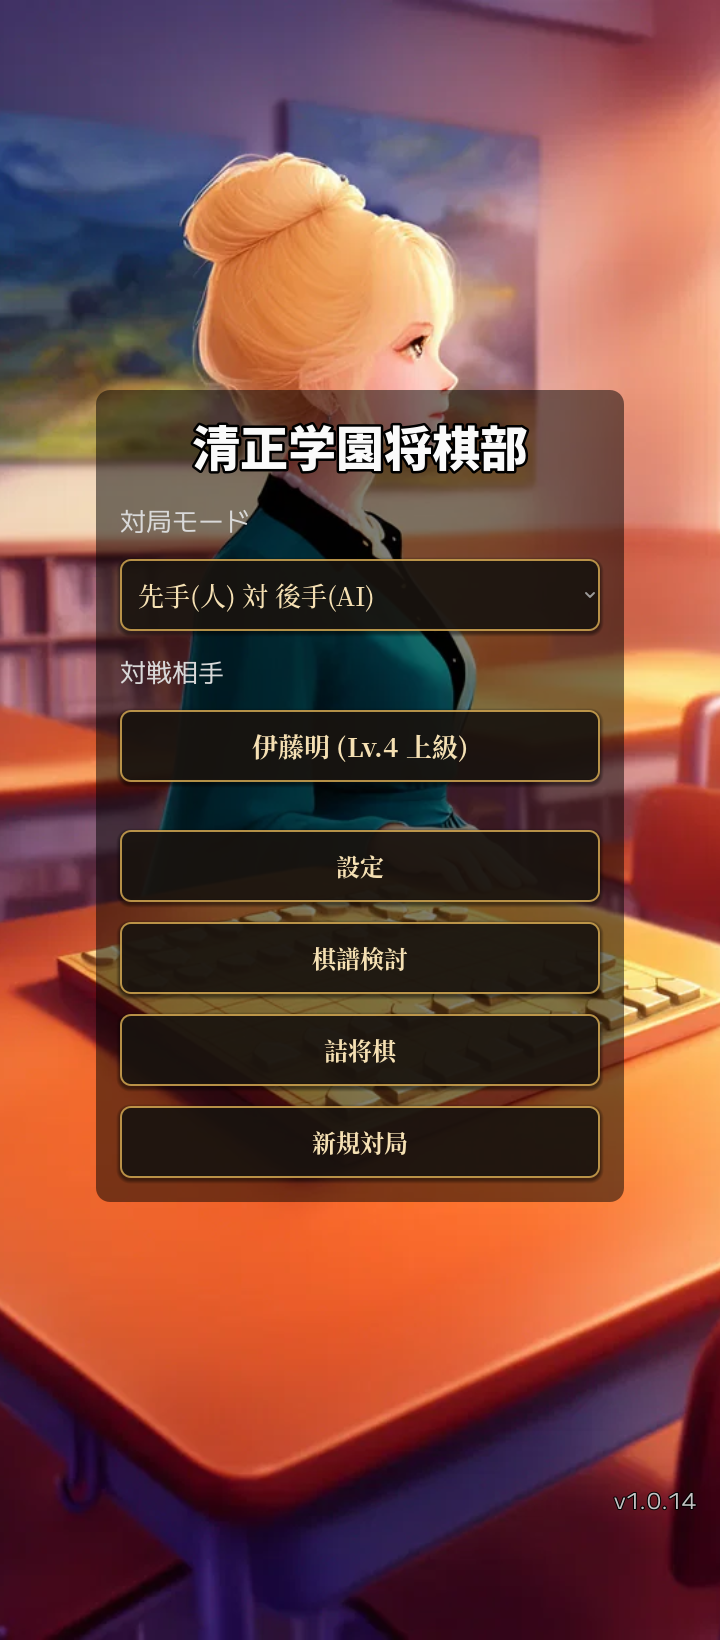
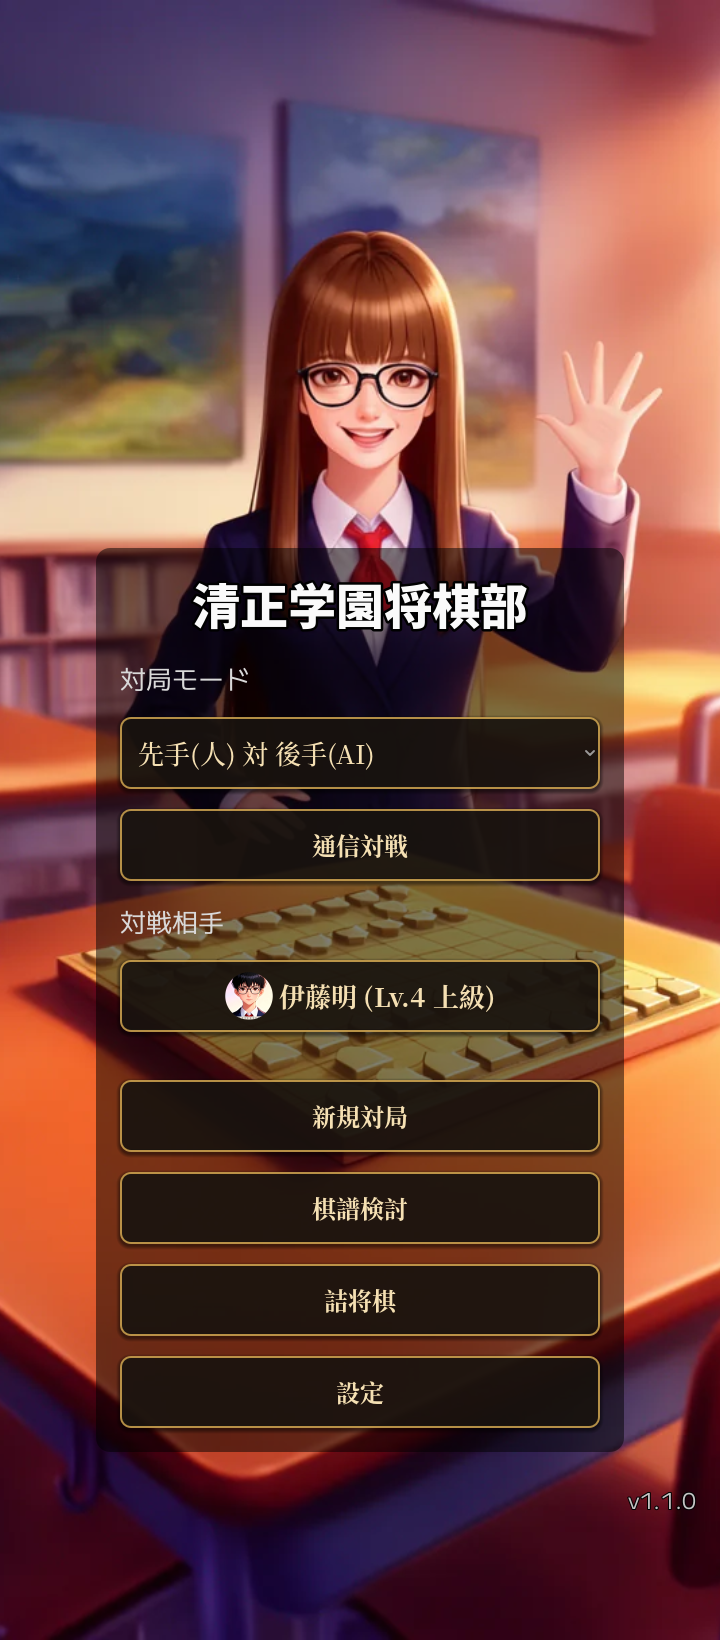
docs: screenshots for 通信対戦 and the new title screen
Retakes the title screen (menu at the bottom, 通信対戦 button, round
opponent portrait) and adds the lobby, the board turned round for
後手 and the 再戦 dialog, for the README and the store listing. The
other screens have not changed.

diff --git a/README.md b/README.md
@@ -29,7 +29,7 @@ Android 7.0（API 24）以降 / arm64-v8a。Google Play ストアは方針とし
 
 | タイトル画面 | 対戦相手選択 | 対局画面 |
 |:---:|:---:|:---:|
-| <img src="docs/screenshots/01_main_menu.png" width="220" alt="タイトル画面 — 対局モード・対戦相手を選び、設定 / 棋譜検討 / 詰将棋 / 新規対局へ進む（中断した対局があれば「続きから」も表示）。背景は部員・先生の絵から毎回ランダムに選ばれる。"> | <img src="docs/screenshots/02_character_picker.png" width="220" alt="対戦相手選択画面 — 8 人の部員・先生から指す相手を選ぶ。上半分に選択中キャラの肖像と紹介、その相手とのあなたの戦績、下半分に Lv 1〜8 のグリッド。"> | <img src="docs/screenshots/03_in_game_start.png" width="220" alt="Lv 4（伊藤明）との対局開始。上部バーに対戦相手の肖像と名前、その下に吹き出しでひと言、下部に「加藤先生！教えてください！」ボタンを配置。肖像は対局の流れで表情が変わる。"> |
+| <img src="docs/screenshots/01_main_menu.png" width="220" alt="タイトル画面 — 対局モードと対戦相手（丸い肖像付き）を選び、新規対局 / 棋譜検討 / 詰将棋 / 設定へ進む。「通信対戦」からは LAN での人対人の対局へ（中断した対局があれば「続きから」も表示）。背景は部員・先生の絵から毎回ランダムに選ばれる。"> | <img src="docs/screenshots/02_character_picker.png" width="220" alt="対戦相手選択画面 — 8 人の部員・先生から指す相手を選ぶ。上半分に選択中キャラの肖像と紹介、その相手とのあなたの戦績、下半分に Lv 1〜8 のグリッド。"> | <img src="docs/screenshots/03_in_game_start.png" width="220" alt="Lv 4（伊藤明）との対局開始。上部バーに対戦相手の肖像と名前、その下に吹き出しでひと言、下部に「加藤先生！教えてください！」ボタンを配置。肖像は対局の流れで表情が変わる。"> |
 
 | 先生モード | 棋譜検討（一覧） | 棋譜検討（解析） |
 |:---:|:---:|:---:|
@@ -38,6 +38,10 @@ Android 7.0（API 24）以降 / arm64-v8a。Google Play ストアは方針とし
 | 詰将棋（出題） | 詰将棋（正解） | 表情の変化（思考中） |
 |:---:|:---:|:---:|
 | <img src="docs/screenshots/07_tsume_problem.png" width="220" alt="詰将棋の出題画面 — 1手詰・3手詰・5手詰のタブに解いた数、今日の一問、盤面の下にヒント / やり直し / 前後の問題ボタン。"> | <img src="docs/screenshots/08_tsume_solved.png" width="220" alt="詰将棋を解いたところ — 「正解！ 詰みです」と表示され、問題名に【済】、タブの解いた数が 1/40 に増える。"> | <img src="docs/screenshots/09_thinking_face.png" width="220" alt="AI の思考中 — 盤の右上に「思考中…」、上部バーの対戦相手が考える表情に変わっている。"> |
+
+| 通信対戦（対局を探す） | 通信対戦（後手の盤面） | 通信対戦（再戦） |
+|:---:|:---:|:---:|
+| <img src="docs/screenshots/10_lan_lobby.png" width="220" alt="通信対戦のロビー — 同じ Wi-Fi で見つかった対局が端末名と IP アドレス付きで並び、タップで参加する。"> | <img src="docs/screenshots/11_lan_gote_board.png" width="220" alt="通信対戦で後手を持った側の画面 — 盤が 180° 回り、自分の駒が手前に来る。上部に相手の端末名と手番（先手）。"> | <img src="docs/screenshots/12_lan_rematch.png" width="220" alt="通信対戦の終局ダイアログ — 相手が再戦を希望していることが表示され、「再戦」で先後を入れ替えて次の対局を始める。"> |
 
 ## 主な機能
 
